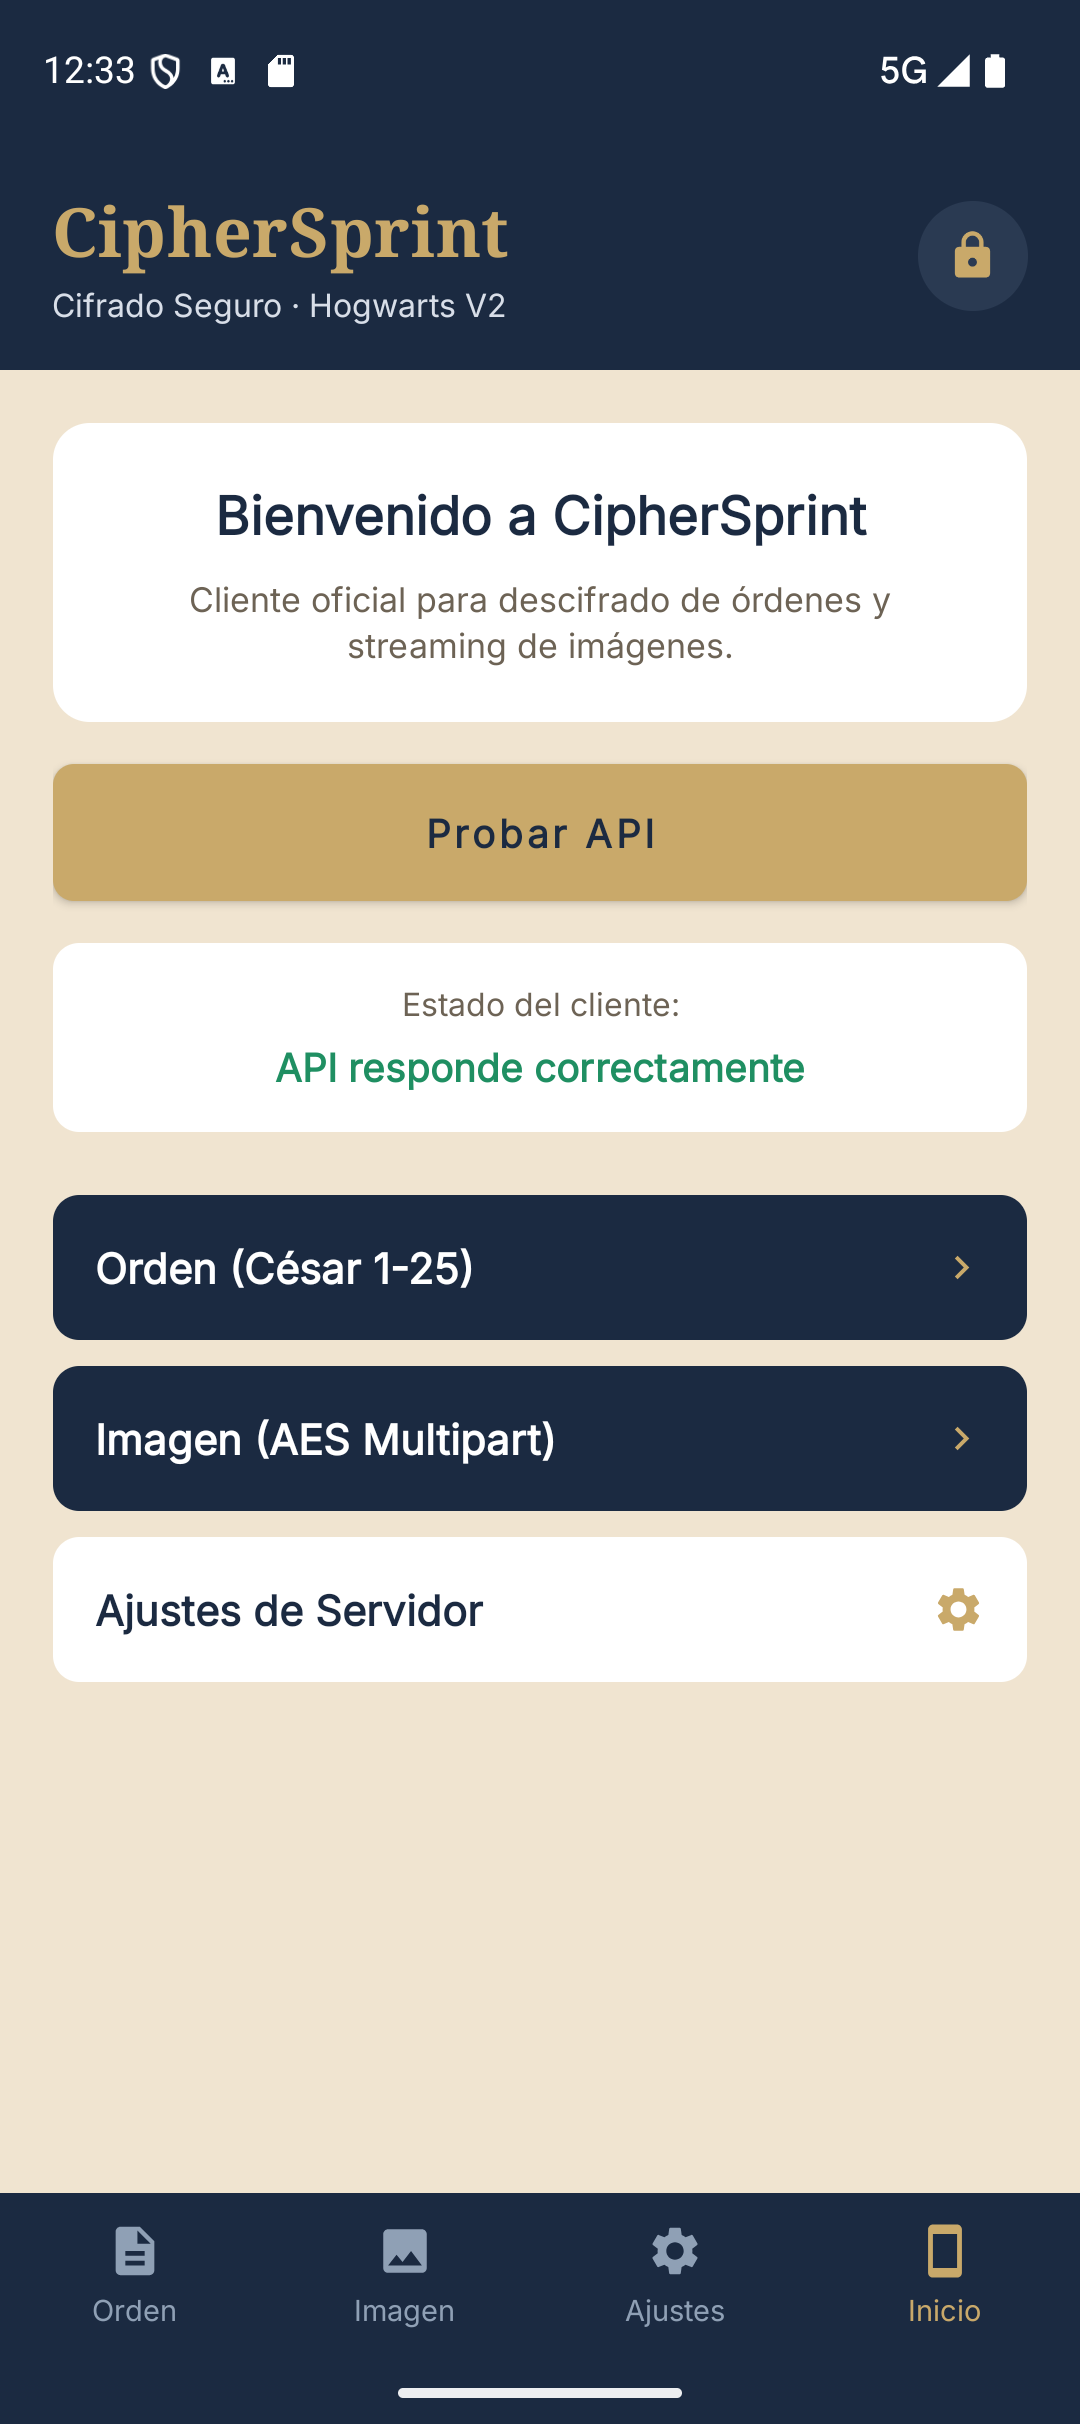
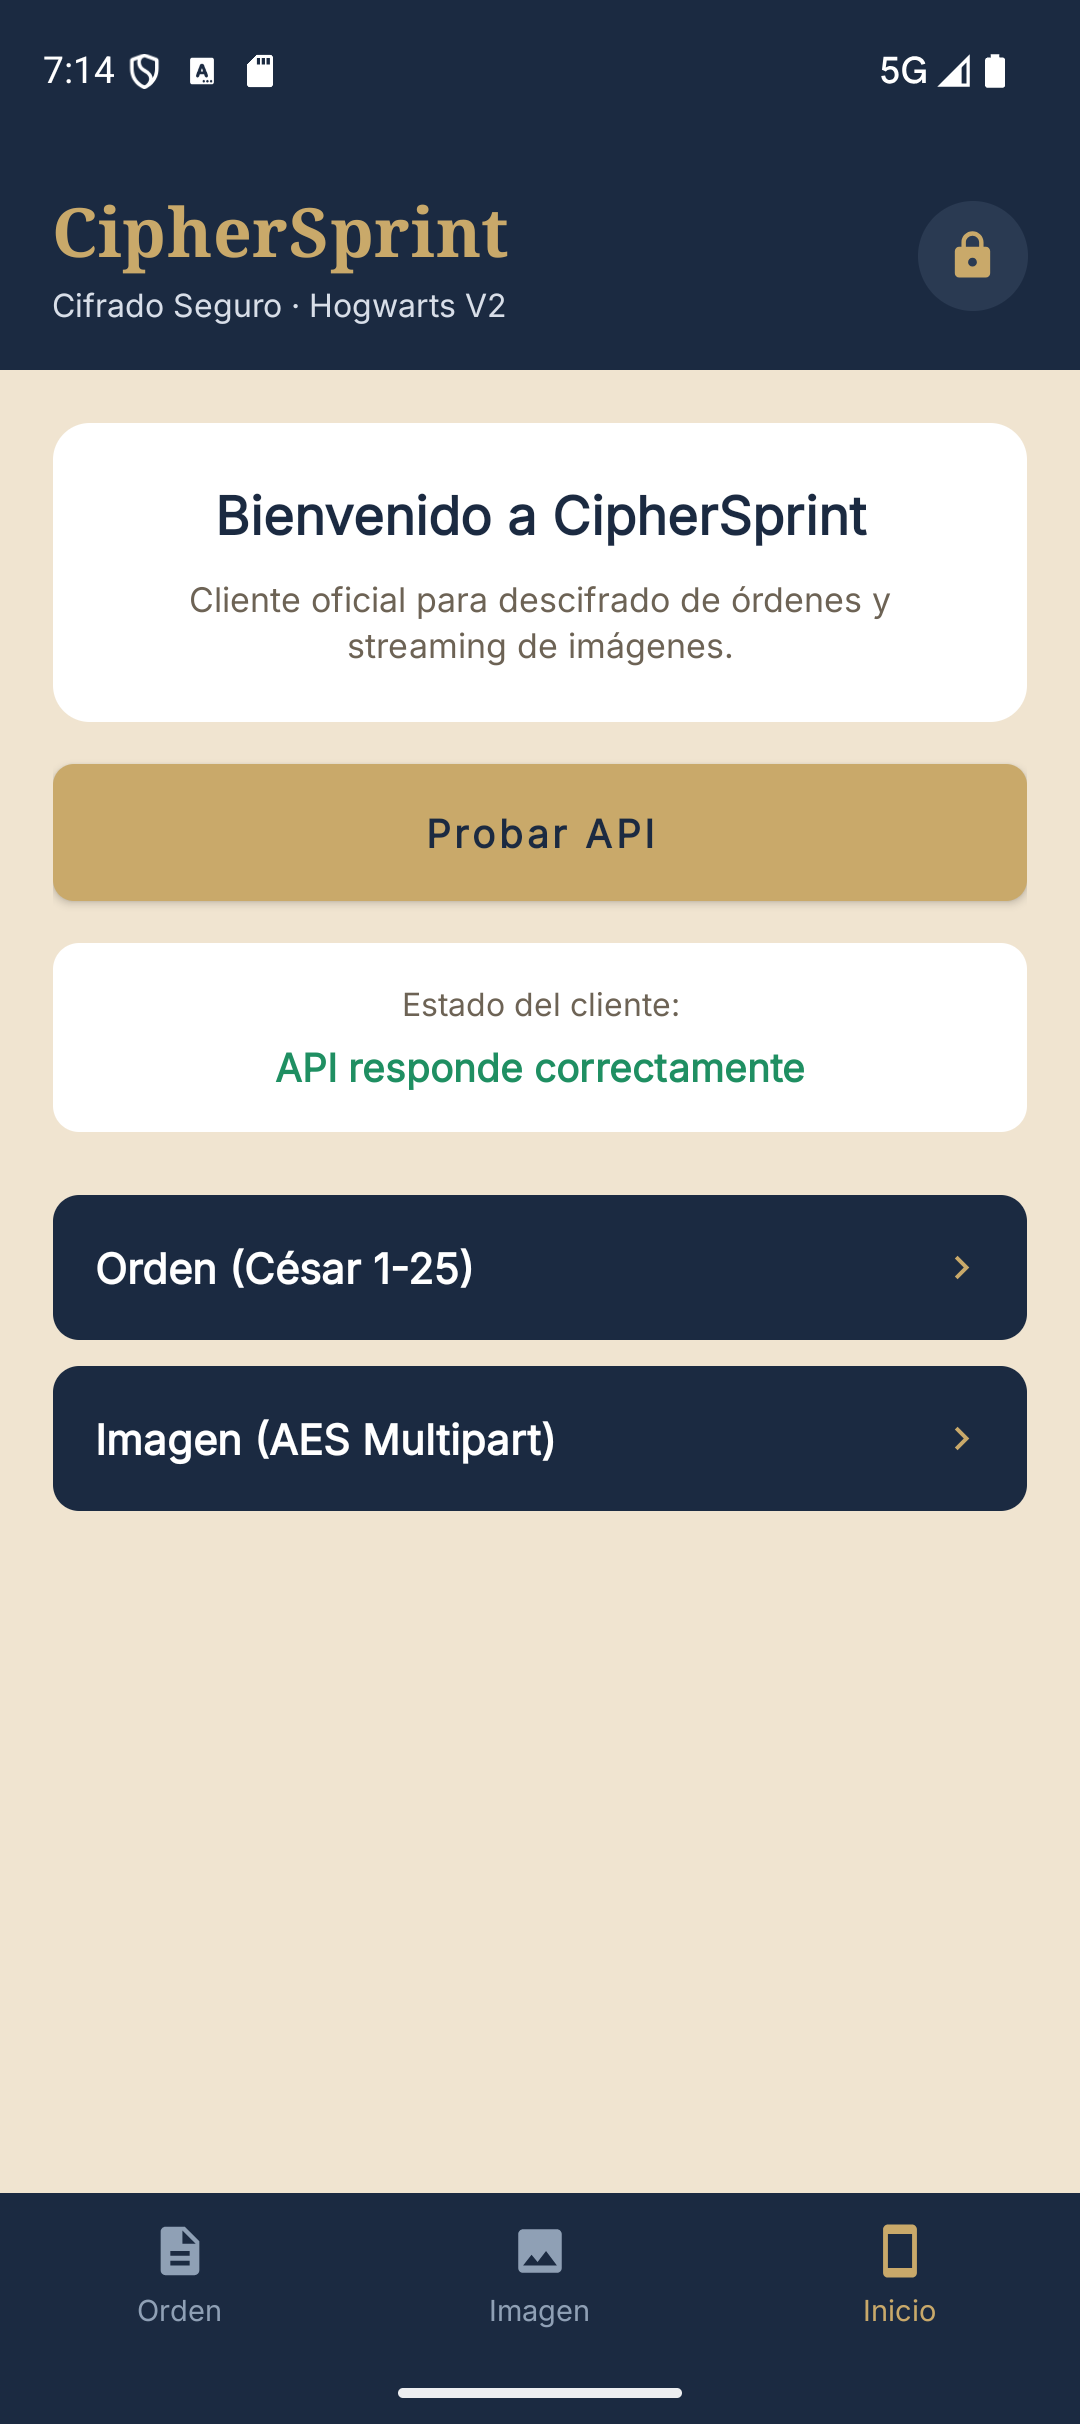
FEAT: Retira Ajustes y prueba API en Inicio
La navegación queda en Inicio, Orden e Imagen.
Se eliminan pantalla, recursos y evidencias de Ajustes.
Se actualizan el APK y la validación.

diff --git a/android/app/src/main/java/com/runnersz/reto2/android/MainActivity.kt b/android/app/src/main/java/com/runnersz/reto2/android/MainActivity.kt
@@ -20,13 +20,12 @@ import com.runnersz.reto2.android.data.ApiConfig
 import com.runnersz.reto2.android.ui.HomeFragment
 import com.runnersz.reto2.android.ui.ImageFragment
 import com.runnersz.reto2.android.ui.OrderFragment
-import com.runnersz.reto2.android.ui.SettingsFragment
 import java.io.File
 import java.io.FileOutputStream
 
 class MainActivity : AppCompatActivity() {
 
-    private enum class Tab { INICIO, ORDEN, IMAGEN, AJUSTES }
+    private enum class Tab { INICIO, ORDEN, IMAGEN }
 
     private var currentTab = Tab.INICIO
 
@@ -79,13 +78,10 @@ class MainActivity : AppCompatActivity() {
 
     fun goToImage() = showTab(Tab.IMAGEN)
 
-    fun goToSettings() = showTab(Tab.AJUSTES)
-
     private fun setupNavigation() {
         findViewById<View>(R.id.navInicio).setOnClickListener { showTab(Tab.INICIO) }
         findViewById<View>(R.id.navOrden).setOnClickListener { showTab(Tab.ORDEN) }
         findViewById<View>(R.id.navImagen).setOnClickListener { showTab(Tab.IMAGEN) }
-        findViewById<View>(R.id.navAjustes).setOnClickListener { showTab(Tab.AJUSTES) }
     }
 
     private fun showTab(tab: Tab, fragment: Fragment = createFragment(tab)) {
@@ -100,14 +96,12 @@ class MainActivity : AppCompatActivity() {
         Tab.INICIO -> HomeFragment()
         Tab.ORDEN -> OrderFragment()
         Tab.IMAGEN -> ImageFragment()
-        Tab.AJUSTES -> SettingsFragment()
     }
 
     private fun paintNavigation(tab: Tab) {
         setNavItem(R.id.navInicio, R.id.navInicioIcon, R.id.navInicioLabel, tab == Tab.INICIO)
         setNavItem(R.id.navOrden, R.id.navOrdenIcon, R.id.navOrdenLabel, tab == Tab.ORDEN)
         setNavItem(R.id.navImagen, R.id.navImagenIcon, R.id.navImagenLabel, tab == Tab.IMAGEN)
-        setNavItem(R.id.navAjustes, R.id.navAjustesIcon, R.id.navAjustesLabel, tab == Tab.AJUSTES)
     }
 
     private fun setNavItem(itemId: Int, iconId: Int, labelId: Int, active: Boolean) {

diff --git a/android/app/src/main/java/com/runnersz/reto2/android/ui/HomeFragment.kt b/android/app/src/main/java/com/runnersz/reto2/android/ui/HomeFragment.kt
@@ -24,9 +24,6 @@ class HomeFragment : Fragment(R.layout.fragment_home) {
         view.findViewById<View>(R.id.rowImage).setOnClickListener {
             (activity as? MainActivity)?.goToImage()
         }
-        view.findViewById<View>(R.id.rowSettings).setOnClickListener {
-            (activity as? MainActivity)?.goToSettings()
-        }
 
         checkApi()
     }

diff --git a/android/README.md b/android/README.md
@@ -2,7 +2,7 @@
 
 Autor: Jairo (@jairoben). Revisión: Alain. Rama: `feature/android`.
 Cliente Android del Reto 2 RunnersZ. Esta versión sustituye la suite anterior
-por la aplicación CipherSprint de cuatro pestañas.
+por la aplicación CipherSprint de tres pestañas.
 
 ## Qué hace
 
@@ -10,16 +10,14 @@ Aplicación nativa Kotlin, `minSdk 26`, `targetSdk 35`, `versionName 2.0.0`.
 No descifra localmente: las operaciones se delegan en la API oficial por HTTPS.
 
 - **Inicio**: bienvenida, botón **Probar API**, estado de conexión y accesos a
-  Orden, Imagen y Ajustes. La comprobación se lanza automáticamente al abrir.
+  Orden e Imagen. La comprobación se lanza automáticamente al abrir.
 - **Orden**: descifrado César con texto y desplazamiento por defecto
   (`Dwdtxh Ñá! 2026`, desplazamiento `3`). Acepta texto escrito o un TXT UTF-8
   de hasta 1 MiB recibido por *Abrir con* / *Compartir*. Valida el rango 1..25.
 - **Imagen**: descifrado AES multipart. Incluye el vector de prueba
   `image.png.enc` y la clave de demostración precargada. Permite seleccionar
   otro `.enc`, exige `X-Integrity: verified` y muestra la vista previa.
-- **Ajustes**: servidor fijo de solo lectura, token enmascarado y botón
-  **Probar conexión**. No hay campos editables ni botón de guardado.
-- **Navegación**: barra inferior Orden / Imagen / Ajustes / Inicio y filas de
+- **Navegación**: barra inferior Orden / Imagen / Inicio y filas de
   acceso rápido en Inicio. Recibe archivos mediante `ACTION_SEND` y
   `ACTION_VIEW` (texto, imagen u octet-stream).
 
@@ -30,7 +28,7 @@ No descifra localmente: las operaciones se delegan en la API oficial por HTTPS.
 - `app/src/main/java/.../data`: cliente OkHttp, configuración y resultados.
 - `app/src/main/java/.../domain`: validación César y mensajes de error.
 - `app/src/main/java/.../security`: reconstrucción del token por fragmentos.
-- `app/src/main/java/.../ui`: Inicio, Orden, Imagen y Ajustes.
+- `app/src/main/java/.../ui`: Inicio, Orden e Imagen.
 - `app/src/main/assets/demo/image.png.enc`: vector AES de demostración.
 - `app/src/main/res`: cabecera, layouts, navegación, colores y textos.
 - `app/src/test`: 4 suites JUnit/Robolectric con 10 pruebas.
@@ -55,7 +53,7 @@ automáticos. Las peticiones se ejecutan fuera del hilo de UI.
   partir de tres fragmentos enmascarados con XOR (`CredentialA/B/C`).
 - Solo se usa para la cabecera `Authorization`; no se guarda en preferencias,
   ni en backups, ni se muestra en la UI o en logs.
-- En Ajustes se muestra únicamente una máscara y la nota de que está integrado.
+- La app no muestra el token en ninguna pantalla ni permite editarlo.
 - Release con R8 full mode, `minifyEnabled`, `shrinkResources`, reempaquetado de
   clases y eliminación de llamadas a `Log`.
 - `allowBackup=false`, reglas de extracción que excluyen preferencias, archivos
@@ -96,8 +94,8 @@ El JDK del sistema debe ser 21: Gradle 8.9 no admite JDK 25.
 
 - APK generado: `app/build/outputs/apk/release/app-release.apk`.
 - Copia de entrega: `C:\Users\dm2\Desktop\CipherSprint.apk`.
[1 lines of base64/hex data omitted]
-- Tamaño: 2.518.310 bytes.
[1 lines of base64/hex data omitted]
+- Tamaño: 2.509.866 bytes.
 
 ## Validación
 
@@ -114,6 +112,3 @@ manual en el emulador `emulator-5556` contra la API real desplegada.
 - [Orden con resultado](docs/evidencias/03_orden_resultado.png)
 - [Imagen](docs/evidencias/04_imagen.png)
 - [Imagen con integridad verificada](docs/evidencias/05_imagen_resultado.png)
-- [Ajustes](docs/evidencias/06_ajustes.png)
-- [Ajustes con conexión correcta](docs/evidencias/07_ajustes_ok.png)
-- [Inicio final](docs/evidencias/08_inicio_final.png)

diff --git a/android/docs/validacion-android.md b/android/docs/validacion-android.md
@@ -1,6 +1,6 @@
 # Validación Android — CipherSprint
 
-Autor: Jairo. Fecha: 2026-11-04. Rama: `feature/android`.
+Autor: Jairo. Fecha: 2026-11-05. Rama: `feature/android`.
 Paquete: `com.runnersz.reto2.android`. Versión: `2.0.0` (`versionCode 2`).
 
 ## Entorno de ejecución
@@ -43,8 +43,8 @@ hubiera medido.
 
 - Ruta de build: `android/app/build/outputs/apk/release/app-release.apk`.
 - Copia en el Escritorio: `C:\Users\dm2\Desktop\CipherSprint.apk`.
-- Tamaño: 2.518.310 bytes.
[1 lines of base64/hex data omitted]
+- Tamaño: 2.509.866 bytes.
[1 lines of base64/hex data omitted]
 - Release con R8 full mode, recursos reducidos y sin `debuggable`.
 - Firmado con la clave **debug** para permitir la instalación de demo; no es
   una firma de producción.
@@ -53,8 +53,7 @@ hubiera medido.
 
 Servidor: `https://runnersz-api.onrender.com/api/v1`. Token integrado en la app.
 
-- `GET /auth/check`: `204`, mostrado como «API responde correctamente» en Inicio
-  y «Conexión correcta con la API» en Ajustes.
+- `GET /auth/check`: `204`, mostrado como «API responde correctamente» en Inicio.
 - `POST /text/caesar`: entrada `Dwdtxh Ñá! 2026`, desplazamiento `3`; resultado
   mostrado `Ataque Ñá! 2026`.
 - `POST /files/decrypt`: vector `image.png.enc` con clave de demostración;
@@ -66,22 +65,19 @@ estuviera mostrando otra aplicación.
 
 ## Evidencias
 
-- `evidencias/01_inicio.png`: Inicio con estado correcto.
+- `evidencias/01_inicio.png`: Inicio con estado correcto y tres pestañas.
 - `evidencias/02_orden.png`: formulario César con valores por defecto.
 - `evidencias/03_orden_resultado.png`: «Ataque Ñá! 2026».
 - `evidencias/04_imagen.png`: vector de prueba y clave AES.
 - `evidencias/05_imagen_resultado.png`: «Integridad verificada» y vista previa.
-- `evidencias/06_ajustes.png`: servidor fijo y token enmascarado.
-- `evidencias/07_ajustes_ok.png`: «Conexión correcta con la API».
-- `evidencias/08_inicio_final.png`: Inicio final con la API disponible.
 
 ## Comprobaciones de seguridad realizadas
 
 - Búsqueda del literal del token en el código fuente: sin coincidencias.
 - El token se reconstruye en memoria desde tres arrays enmascarados y solo se
   usa en la cabecera `Authorization`.
-- Ajustes muestra una máscara; no hay preferencias, backup ni extracción del
-  token.
+- La app no muestra el token en ninguna pantalla; no hay preferencias, backup
+  ni extracción del token.
 - `usesCleartextTraffic=false` y `network_security_config` solo permiten HTTPS
   con CA del sistema.
 - Host de API fijado en `ApiConfig.BASE_URL`; no editable desde la UI.
@@ -101,4 +97,4 @@ estuviera mostrando otra aplicación.
   baja.
 - La disponibilidad y el formato de la API dependen del backend desplegado; si
   cambia el contrato o se rota el token, hay que actualizar el cliente.
-- No se hizo push ni se abrió PR en esta fase.
+- Los cambios están publicados en `origin/feature/android`; no se abrió PR.
